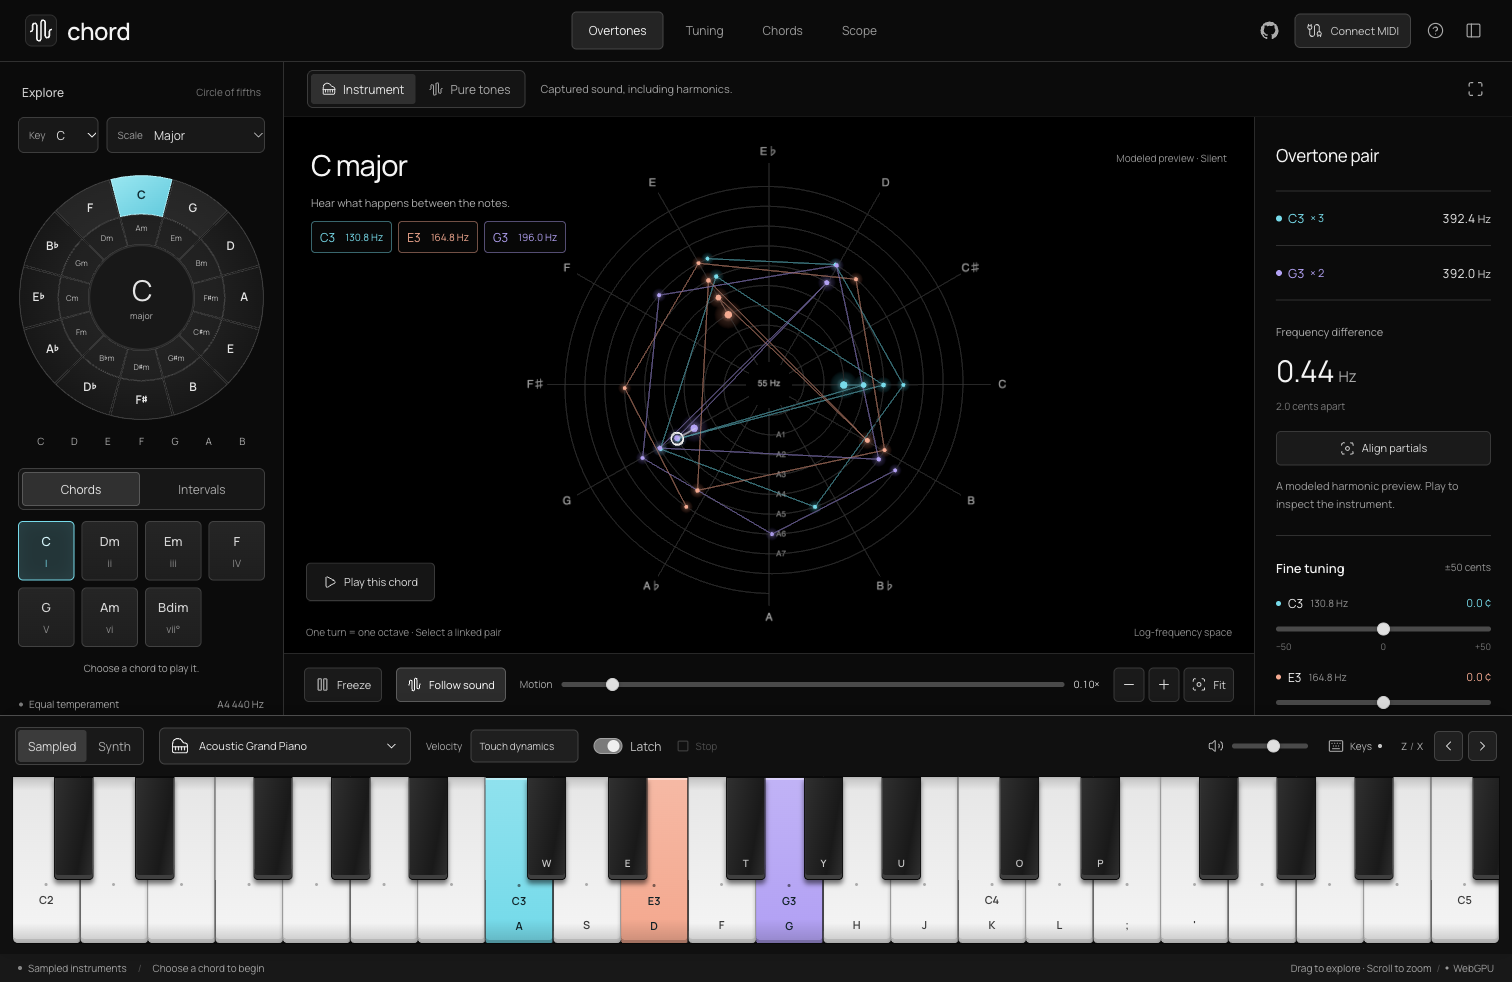
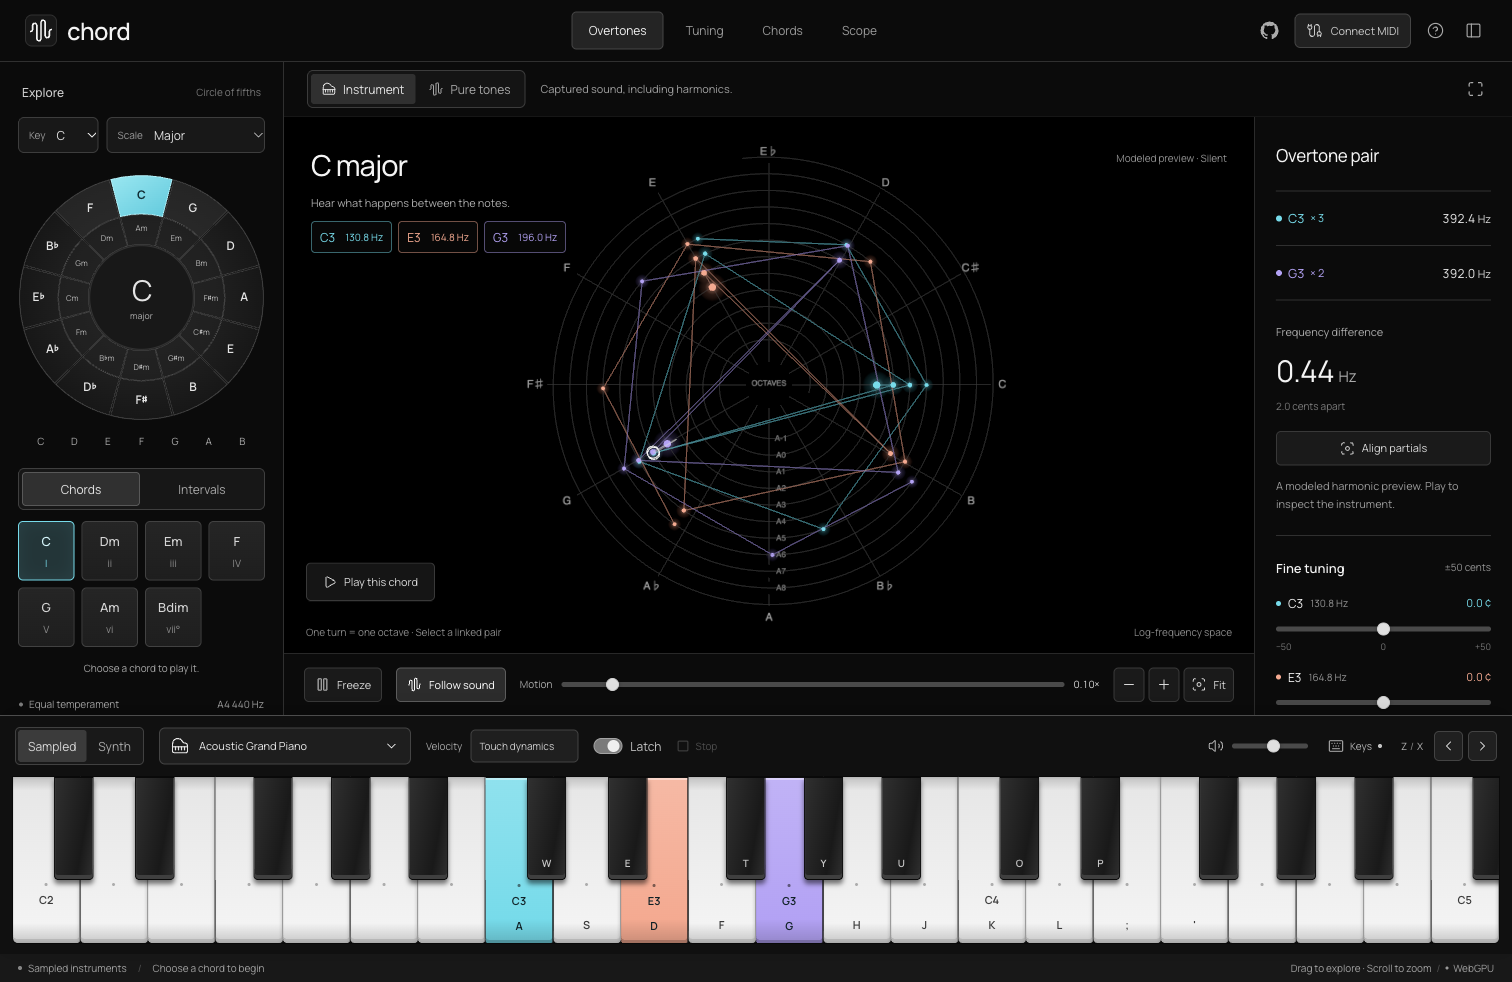
fix: keep spectral measurements accurate through retuning and MIDI range extremes

Changed region(s): [[0.373, 0.1833, 0.6528, 0.611]]

diff --git a/src/lib/harmony/spectrum-capture.spec.ts b/src/lib/harmony/spectrum-capture.spec.ts
@@ -1,0 +1,67 @@
+import { afterEach, describe, expect, it, vi } from 'vitest';
+import { SpectrumCapture } from './spectrum-capture';
+import type { PlotNote } from '../types';
+import type { VoiceSpectrum } from './types';
+
+interface Job { key: string; notes: PlotNote[]; channels: Float32Array[]; sampleRate: number }
+class TestWorker {
+	static current: TestWorker;
+	onmessage: ((event: MessageEvent<{ key: string; voices: VoiceSpectrum[] }>) => void) | null = null;
+	jobs: Job[] = [];
+	constructor() { TestWorker.current = this; }
+	postMessage(job: Job) { this.jobs.push(job); }
+	terminate() { /* No native thread in this deterministic state-machine test. */ }
+	finish(index: number, partials = 1) {
+		const job = this.jobs[index];
+		const voices = job.notes.map((note) => ({ id: note.id, note, partials: Array.from({ length: partials }, (_, i) => ({
+			id: `${note.id}:${i}`, voiceId: note.id, frequency: note.frequency * (i + 1), amplitude: 1 / (i + 1), order: i + 1
+		})) }));
+		this.onmessage?.({ data: { key: job.key, voices } } as MessageEvent<{ key: string; voices: VoiceSpectrum[] }>);
+	}
+}
+const note: PlotNote = { id: 'a', midi: 69, frequency: 440, label: 'A4' };
+const push = (capture: SpectrumCapture, version: number, start = 0) => capture.push({ startFrame: start, sampleRate: 48000,
+	channels: [new Float32Array(20000).fill(.1)], voiceIds: ['a'], frequencies: [440], versions: [version] });
+
+afterEach(() => vi.unstubAllGlobals());
+describe('spectral capture generations', () => {
+	it('labels a new sample generation as pending until its own measurement arrives', () => {
+		vi.stubGlobal('Worker', TestWorker);
+		const capture = new SpectrumCapture(); push(capture, 1);
+		expect(capture.read([note], 'instrument', true).source).toBe('waiting');
+		TestWorker.current.finish(0);
+		expect(capture.read([note], 'instrument', true).source).toBe('captured');
+		push(capture, 2, 20000);
+		expect(capture.read([note], 'instrument', true).source).toBe('waiting');
+		TestWorker.current.finish(1, 4);
+		const measured = capture.read([note], 'instrument', true);
+		expect(measured.source).toBe('captured');
+		expect(measured.voices[0].partials).toHaveLength(4);
+		capture.dispose();
+	});
+	it('retuning projects the last capture and blocks queued PCM from before the glide', () => {
+		vi.stubGlobal('Worker', TestWorker);
+		const capture = new SpectrumCapture(); push(capture, 1); capture.read([note], 'instrument', true); TestWorker.current.finish(0);
+		capture.retune();
+		const tuned = { ...note, frequency: 445 };
+		push(capture, 1, 20000);
+		const projection = capture.read([tuned], 'instrument', true);
+		expect(projection.projected).toBe(true);
+		expect(projection.voices[0].partials[0].frequency).toBeCloseTo(445, 10);
+		expect(TestWorker.current.jobs).toHaveLength(1);
+		push(capture, 2, 40000); capture.read([tuned], 'instrument', true); TestWorker.current.finish(1);
+		expect(capture.read([tuned], 'instrument', true).projected).toBe(false);
+		capture.dispose();
+	});
+	it('a superseded worker result cannot restore the previous source', () => {
+		vi.stubGlobal('Worker', TestWorker);
+		const capture = new SpectrumCapture(); push(capture, 1); capture.read([note], 'instrument', true);
+		capture.clear(); push(capture, 2, 20000); capture.read([note], 'pure', true);
+		TestWorker.current.finish(0, 4);
+		expect(capture.read([note], 'pure', true).source).toBe('waiting');
+		TestWorker.current.finish(1);
+		const fresh = capture.read([note], 'pure', true);
+		expect(fresh.source).toBe('captured'); expect(fresh.voices[0].partials).toHaveLength(1);
+		capture.dispose();
+	});
+});

diff --git a/src/lib/harmony/spectrum-capture.ts b/src/lib/harmony/spectrum-capture.ts
@@ -20,6 +20,7 @@ export class SpectrumCapture {
 	private revision = 0;
 	private pending = '';
 	private measuredKey = '';
+	private measurementKey = '';
 	private lastKey = '';
 	private measurement: VoiceSpectrum[] = [];
 	private snapshot: HarmonicSnapshot = { revision: 0, source: 'preview', projected: false, voices: [] };
@@ -29,7 +30,7 @@ export class SpectrumCapture {
 			this.pending = '';
 			this.measuredKey = data.key;
 			// Keep the last meaningful capture after a finite sample has decayed.
-			if (data.voices.every((voice) => voice.partials.length)) this.measurement = data.voices;
+			if (data.voices.every((voice) => voice.partials.length)) { this.measurement = data.voices; this.measurementKey = data.key; }
 			this.lastKey = '';
 		};
 	}
@@ -53,7 +54,7 @@ export class SpectrumCapture {
 				this.worker.postMessage({ key: jobKey, notes: [...notes], channels, sampleRate: this.history.sampleRate }, channels.map((channel) => channel.buffer));
 			}
 		}
-		const key = `${signature}/${this.measuredKey}/${active}`;
+		const key = `${jobKey}/${this.measuredKey}/${active}`;
 		if (key === this.lastKey) return this.snapshot;
 		this.lastKey = key;
 		const matched = notes.length > 0 && notes.every((note) => this.measurement.some((voice) => voice.id === note.id));
@@ -62,14 +63,17 @@ export class SpectrumCapture {
 			const ratio = note.frequency / voice.note.frequency;
 			return { id: note.id, note, partials: voice.partials.map((partial) => ({ ...partial, frequency: partial.frequency * ratio })) };
 		}) : previewSpectrum(notes, mode);
-		this.snapshot = { revision: ++this.revision, source: matched ? 'captured' : active ? 'waiting' : 'preview',
+		const awaitingGeneration = active && generation !== null && this.measurementKey !== jobKey;
+		this.snapshot = { revision: ++this.revision, source: matched ? awaitingGeneration ? 'waiting' : 'captured' : active ? 'waiting' : 'preview',
 			projected: matched && notes.some((note) => this.measurement.find((voice) => voice.id === note.id)!.note.frequency !== note.frequency), voices };
 		return this.snapshot;
 	}
 	clear(): void {
-		this.epoch++; this.history.invalidate(); this.measurement = []; this.pending = ''; this.measuredKey = ''; this.lastKey = '';
+		this.epoch++; this.history.invalidate(); this.measurement = []; this.pending = ''; this.measuredKey = ''; this.measurementKey = ''; this.lastKey = '';
 	}
 	/** Keep the visible measurement until a new complete window can replace it. */
 	recapture(): void { this.epoch++; this.history.clear(); this.pending = ''; this.measuredKey = ''; this.lastKey = ''; }
+	/** Reject queued pre-glide PCM but preserve the last spectrum for projection. */
+	retune(): void { this.epoch++; this.history.invalidate(); this.pending = ''; this.measuredKey = ''; this.lastKey = ''; }
 	dispose(): void { this.worker.terminate(); this.history.clear(); }
 }

diff --git a/src/lib/visualization/harmony-scene.ts b/src/lib/visualization/harmony-scene.ts
@@ -11,8 +11,8 @@ import { SoundActivity } from './activity';
 const TAU = Math.PI * 2;
 const palette = NOTE_COLORS.map((value) => new THREE.Color(value));
 const spiralPosition = (frequency: number) => {
-	const octave = Math.log2(Math.max(27.5, frequency) / 55);
-	const radius = .65 + (octave + 1) * .43;
+	const octave = Math.log2(Math.max(8, frequency) / 55);
+	const radius = .8 + (octave + 3) * .36;
 	return new THREE.Vector3(radius * Math.cos(octave * TAU - Math.PI / 2), radius * Math.sin(octave * TAU - Math.PI / 2), 0);
 };
 
@@ -78,7 +78,7 @@ export async function createHarmonyScene(canvas: HTMLCanvasElement, options: Har
 		const sprite = new THREE.Sprite(material); sprite.position.copy(position); sprite.scale.set(size * 4, size, 1); scene.add(sprite);
 		return sprite;
 	}
-	const spiralPoints = Array.from({ length: 2401 }, (_, i) => spiralPosition(27.5 * 2 ** (i / 2400 * 9)));
+	const spiralPoints = Array.from({ length: 3201 }, (_, i) => spiralPosition(8 * 2 ** (i / 3200 * 11.3)));
 	scenes.overtones.add(new THREE.Line(ownGeometry(new THREE.BufferGeometry().setFromPoints(spiralPoints)), gridMaterial));
 	for (let semitone = 0; semitone < 12; semitone++) {
 		const angle = semitone / 12 * TAU - Math.PI / 2;
@@ -86,8 +86,8 @@ export async function createHarmonyScene(canvas: HTMLCanvasElement, options: Har
 		scenes.overtones.add(new THREE.Line(ownGeometry(new THREE.BufferGeometry().setFromPoints([direction.clone().multiplyScalar(.5), direction.clone().multiplyScalar(4.8)])), gridMaterial));
 		label(['A', 'B♭', 'B', 'C', 'C♯', 'D', 'E♭', 'E', 'F', 'F♯', 'G', 'A♭'][semitone], direction.clone().multiplyScalar(5.05), scenes.overtones, '#999999', .38);
 	}
-	for (let octave = 1; octave < 8; octave++) label(`A${octave}`, new THREE.Vector3(.26, -(.65 + octave * .43), -.02), scenes.overtones, '#818181', .28);
-	label('55 Hz', new THREE.Vector3(0, .04, .05), scenes.overtones, '#aaaaaa', .3);
+	for (let octave = -1; octave < 9; octave++) label(`A${octave}`, new THREE.Vector3(.26, spiralPosition(55 * 2 ** (octave - 1)).y, -.02), scenes.overtones, '#818181', .28);
+	label('OCTAVES', new THREE.Vector3(0, .04, .05), scenes.overtones, '#999999', .26);
 
 	const surfaceGroup = new THREE.Group(); scenes.tuning.add(surfaceGroup);
 	const terrainMaterial = ownMaterial(new THREE.MeshStandardNodeMaterial({ roughness: .85, metalness: .16, side: THREE.DoubleSide }));

diff --git a/src/lib/harmony/analysis.spec.ts b/src/lib/harmony/analysis.spec.ts
@@ -16,6 +16,14 @@ describe('measured harmonic analysis', () => {
 		expect(peaks[1].amplitude / peaks[0].amplitude).toBeCloseTo(.24, 1);
 	});
 	it('returns no peaks for silence', () => expect(analyseSpectrum(new Float32Array(FFT_SIZE), 48000, 440, 'a')).toEqual([]));
+	it('covers both ends of the MIDI range instead of dropping low and high pure notes', () => {
+		for (const frequency of [440 * 2 ** (-69 / 12), 440 * 2 ** (58 / 12)]) {
+			const samples = Float32Array.from({ length: FFT_SIZE }, (_, i) => .5 * Math.sin(2 * Math.PI * frequency * i / 48000));
+			const peaks = analyseSpectrum(samples, 48000, frequency, 'edge');
+			expect(peaks.length).toBeGreaterThan(0);
+			expect(Math.abs(peaks[0].frequency - frequency)).toBeLessThan(.15);
+		}
+	});
 });
 
 describe('local roughness model', () => {

diff --git a/src/lib/harmony/spectrum.ts b/src/lib/harmony/spectrum.ts
@@ -40,7 +40,7 @@ export function analyseSpectrum(samples: Float32Array, sampleRate: number, funda
 	let peak = 0;
 	for (const value of magnitude) peak = Math.max(peak, value);
 	const found: Omit<Partial, 'id'>[] = [];
-	for (let bin = Math.max(2, Math.floor(20 * n / sampleRate)); bin < Math.min(n / 2 - 1, 12000 * n / sampleRate); bin++) {
+	for (let bin = Math.max(2, Math.floor(8 * n / sampleRate)); bin < Math.min(n / 2 - 1, 20000 * n / sampleRate); bin++) {
 		const value = magnitude[bin];
 		if (value < peak * .018 || value <= magnitude[bin - 1] || value <= magnitude[bin + 1]) continue;
 		const left = Math.log(Math.max(1e-12, magnitude[bin - 1])), center = Math.log(value), right = Math.log(Math.max(1e-12, magnitude[bin + 1]));

diff --git a/src/routes/+page.svelte b/src/routes/+page.svelte
@@ -139,7 +139,7 @@
 		const retune=(note:PlotNote)=>({...note,frequency:tunedFrequency(note.midi,next[note.midi]??0)});
 		held=Object.fromEntries(liveNotes.map((note)=>[note.id,retune(note)]));
 		frozenNotes=frozenNotes.map(retune);retainedNotes=retainedNotes.map(retune);
-		scope?.clearSignals();audio?.setFrequencies(Object.values(held).map((note)=>({id:note.id,frequency:note.frequency})));
+		scope?.clearSignals();analysis?.retune();audio?.setFrequencies(Object.values(held).map((note)=>({id:note.id,frequency:note.frequency})));
 	}
 	function changeWorkspace(next:Workspace){workspace=next;if(next==='overtones'||next==='tuning')harmonicView=next;}
 	function workspaceKey(event:KeyboardEvent){
